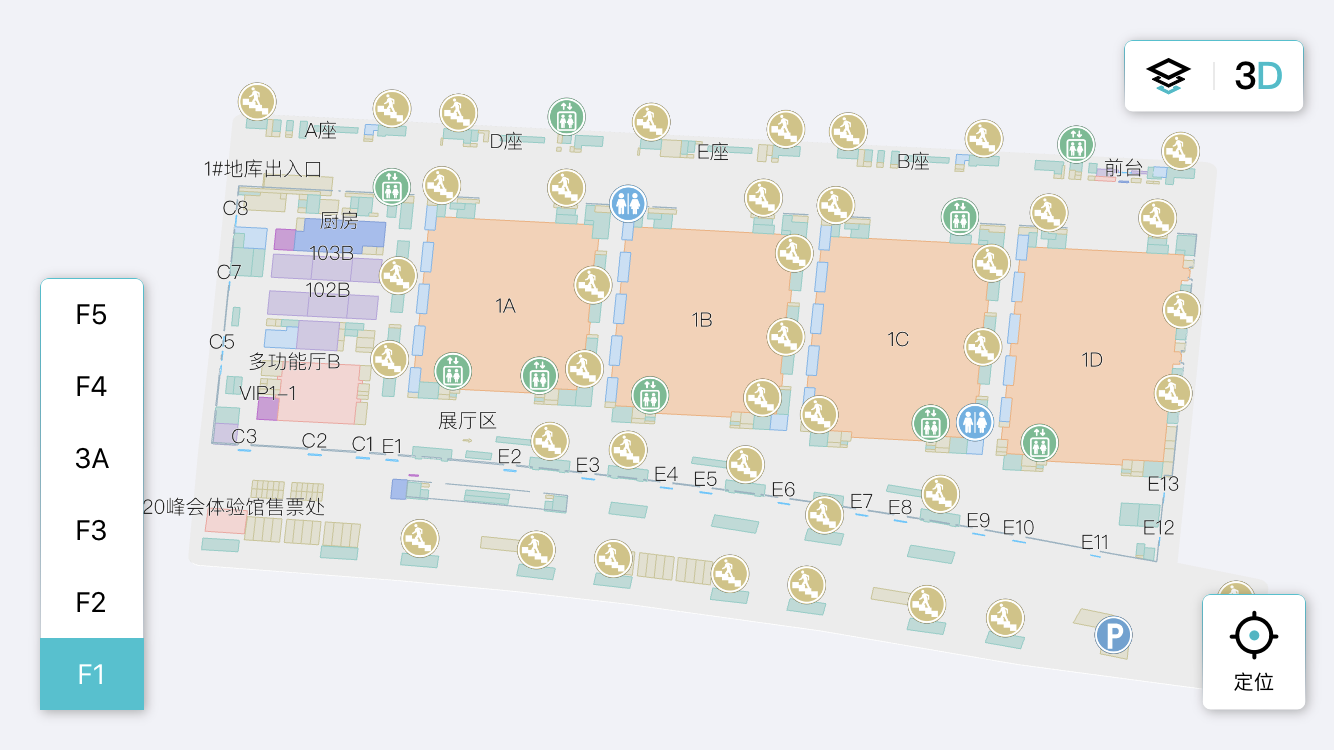
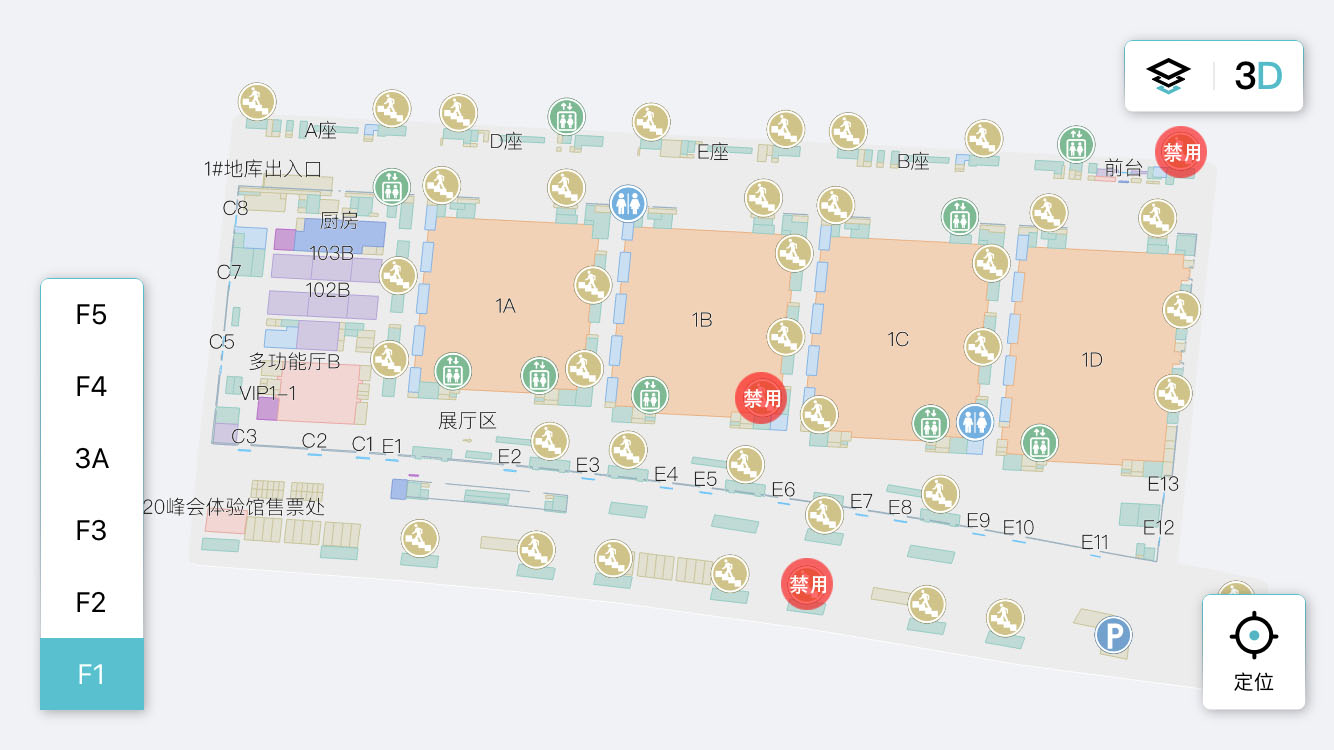
添加逃生路线

Changed region(s): [[0.8606, 0.1533, 0.922, 0.2453], [0.584, 0.736, 0.6454, 0.828], [0.5532, 0.4907, 0.6147, 0.5827]]

diff --git a/src/util/Draw_traj.js b/src/util/Draw_traj.js
@@ -1,0 +1,169 @@
+function arrowTo(ctx, p1, p2, arrowOptions) {
+        // 初始化参数
+        var opts = {
+            startOffset: 5,             // 起点的留空长度
+            endOffset: 5,               // 终点的留空长度
+            offset: 0,                  // 偏移位（模拟动画效果用, 使用时建议将justifyAlign设为false） 
+            color: '#E6E6FA',           // 默认颜色 
+            activeIndex: -1,            // 高亮箭头的索引, 超出回到一圈起始位置。(默认-1，不做高亮处理) 
+            activeColor: "#00FF00",     // 高亮颜色(Highligh Color)
+            stepLength: 10,             // 间隔(步长)
+            justifyAlign: true,         // 两端对齐(两边撑满, 配合activeIndex > 0时使用) 
+            arrowLength: 15,            // 箭头长度(柄到顶点)            
+            arrowTheta: 25,             // 箭头两边的夹角（度数） 
+            arrowHeadlen: 6,            // 箭头两边斜边长度 
+            arrowLineWidth: 1,          // 画箭头的线宽度
+            lineWidth: 1,               // 两点间的连丝宽度（>0时，有效）
+        };
+ 
+ 
+        if (arrowOptions !== undefined && arrowOptions !== null) {
+            opts = Object.assign(opts, arrowOptions);
+        }
+ 
+ 
+        // 画连结两点的线
+//         if (opts.lineWidth > 0) {
+//             ctx.beginPath();
+//             ctx.moveTo(p1.x, p1.y);
+//             ctx.lineTo(p2.x, p2.y);
+//             //颜色，线宽
+//             ctx.strokeStyle = opts.color;
+//             ctx.lineWidth = opts.lineWidth;
+//             ctx.stroke();
+//             ctx.closePath();
+//         }
+ 
+ 
+        // 计两点距离
+        var len = Math.floor(Math.sqrt(Math.pow(p1.x - p2.x, 2) + Math.pow(p1.y - p2.y, 2)));
+        // 计算画多少个箭头(注意：最后一个箭头是不需要间隔(步长)，所以可用长度要加一个opts.stepLength)
+        var loops = Math.floor((len - (opts.startOffset + opts.offset + opts.endOffset) + opts.stepLength) / (opts.arrowLength + opts.stepLength));
+        // 两端对齐(两边撑满)，重算步长 
+        if (opts.justifyAlign === true) {
+            opts.stepLength = (len - (opts.startOffset + opts.offset + opts.endOffset) - (opts.arrowLength * loops)) / (loops - 1);
+        }
+ 
+ 
+        // 高亮箭头的索引, 超出回到一圈起始位置。(用于动画效果) 
+        var highlightIndex = 0;               // 0 - 无动画效果                
+        if (opts.activeIndex > 0) {
+            if ((opts.activeIndex % loops) === 0) {
+                highlightIndex = loops;
+            }
+            else {
+                highlightIndex = opts.activeIndex % loops;
+            }
+        }
+ 
+ 
+        var hudu = Math.atan2(p1.y - p2.y, p2.x - p1.x);    // 计算p1, p2两点的倾斜度（弧度）。(注意参数：p1.y - p2.y, p2.x - p1.x, 请勿搞错)
+        var p0 = { x: p1.x, y: p1.y };                      // 原点坐标, 作为圆心。 (辅助计算箭头起点(柄)与顶点的坐标)
+        var r;                                              // 半径。 (辅助计算箭头起点(柄)与顶点的坐标)
+        var color;
+        for (var i = 0; i < loops; i++) {
+            // 箭头起点(柄)
+            r = (opts.startOffset + opts.offset) + (opts.arrowLength + opts.stepLength) * i;     // 原点到箭头起点(柄)的半径
+            p1 = {
+                x: p0.x + Math.cos(hudu) * r,
+                y: p0.y - Math.sin(hudu) * r
+            };
+ 
+ 
+            // 箭头终点（顶点）
+            r = r + opts.arrowLength;                       // 原点到箭头顶点(柄)的半径
+            p2 = {
+                x: p0.x + Math.cos(hudu) * r,
+                y: p0.y - Math.sin(hudu) * r
+            };
+ 
+            // 画一个箭头
+            if (highlightIndex > 0 && i === (highlightIndex - 1)) {
+                color = opts.activeColor;       //高亮箭头（动画效果）
+            }
+            else {
+                color = opts.color;
+            }
+            drawArrow(ctx, p1, p2, opts.arrowTheta, opts.arrowHeadlen, opts.arrowLineWidth, color);
+        }
+    }
+ 
+ 
+    // 画箭头
+    // ctx - 画布上下文（我理解成画笔）
+    // p1 - 起点
+    // p2 - 终点
+    // theta -- 夹角theta (是度数，不是弧度)
+    // headlen -- 斜边长度
+    // width -- 线宽
+    // color -- 颜色
+    function drawArrow(ctx, p1, p2, theta, headlen, width, color) {
+        theta = (theta !== undefined && theta !== null) ? theta : 25;       //夹角(度数)
+        headlen = (headlen !== undefined && headlen !== null) ? headlen : 6;   //斜边长度
+        width = (width !== undefined && width !== null) ? width : 1;        //线宽
+        color = (color !== undefined && color !== null) ? color : '#000';       //颜色
+ 
+ 
+        var angle = Math.atan2(p1.y - p2.y, p1.x - p2.x) * 180 / Math.PI,   //倾斜度(度数)
+            angle1 = (angle + theta) * Math.PI / 180,            //夹角1
+            angle2 = (angle - theta) * Math.PI / 180,            //夹角2   
+            topX = headlen * Math.cos(angle1),                   //箭头上面点, X偏移位
+            topY = headlen * Math.sin(angle1),                   //箭头上面点, Y偏移位
+            botX = headlen * Math.cos(angle2),                   //箭头下面点, X偏移位   
+            botY = headlen * Math.sin(angle2);                   //箭头下面点, Y偏移位      
+        ctx.save();
+
+        ctx.beginPath();
+ 
+        //连结两点的线
+        ctx.moveTo(p1.x, p1.y);
+        ctx.lineTo(p2.x, p2.y);
+ 
+ 
+        //终点箭头的两侧
+        var arrowX = p2.x + topX;
+        var arrowY = p2.y + topY;
+        ctx.moveTo(arrowX, arrowY);
+        ctx.lineTo(p2.x, p2.y);           //终点
+        arrowX = p2.x + botX;
+        arrowY = p2.y + botY;
+        ctx.lineTo(arrowX, arrowY);
+ 
+ 
+        //颜色，线宽
+        ctx.strokeStyle = color;
+        ctx.lineWidth = width;
+        ctx.stroke();
+ 
+ 
+        ctx.restore();
+    }
+ 
+ 
+    // 为Object扩展assign方法（合拼多个对象的属性，返回一个新对象）
+    if (!Object.assign) {
+        Object.defineProperty(Object, "assign", {
+            enumerable: false,
+            configurable: true,
+            writable: true,
+            value: function (target, firstSource) {
+                "use strict";
+                if (target === undefined || target === null)
+                    throw new TypeError("Cannot convert first argument to object");
+                var to = Object(target);
+                for (var i = 1; i < arguments.length; i++) {
+                    var nextSource = arguments[i];
+                    if (nextSource === undefined || nextSource === null) continue;
+                    var keysArray = Object.keys(Object(nextSource));
+                    for (var nextIndex = 0, len = keysArray.length; nextIndex < len; nextIndex++) {
+                        var nextKey = keysArray[nextIndex];
+                        var desc = Object.getOwnPropertyDescriptor(nextSource, nextKey);
+                        if (desc !== undefined && desc.enumerable) to[nextKey] = nextSource[nextKey];
+                    }
+                }
+                return to;
+            }
+        });
+    }
+
+export default arrowTo

diff --git a/src/map.js b/src/map.js
@@ -8,7 +8,7 @@ import pic_f5 from './image/f5.jpg';
 import pic_f3a from './image/f3a.jpg';
 
 import Particle from './util/particle'
-
+import arrowTo from './util/Draw_traj'
 const pics = {
 	'f1' : pic_f1,
 	'f2' : pic_f2,
@@ -26,12 +26,75 @@ class Map extends React.Component {
     }
 
     this.canvas = React.createRef();
+    this.TrajsCanvas = React.createRef();
+    this.floorTrajs ={
+      'f1' : {
+'origin':{ x: 350, y: 150},
+'trajs':[
+      [{ x: 350, y: 150 },{ x: 360, y: 70 }],
+      [{ x: 360, y: 70 },{ x: 400, y: 60 }], 
+      [{ x: 350, y: 150 },{ x: 400, y: 100 }],
+      [{x: 350, y: 150 },{ x: 420, y: 130 }],
+      [{ x: 350, y: 150 },{ x: 400, y: 160 }]
+      ]
+      },
+  'f2' : {
+'origin':{ x: 550, y: 150},
+'trajs':[
+      [{ x: 550, y: 150 },{ x: 520, y: 100 }],
+      [{ x: 550, y: 150 },{ x: 520, y: 210 }], 
+      [{ x: 550, y: 150 },{ x: 600, y: 100 }],
+      [{x: 550, y: 150 },{ x: 600, y: 130 }],
+      [{ x: 550, y: 150 },{ x: 600, y: 160 }]
+      ]
+      },
+  'f3' :{
+'origin':{ x: 350, y: 150},
+'trajs':[
+     [{ x: 350, y: 150 },{ x: 350, y: 70 }],
+      [{ x: 350, y: 70 },{ x: 320, y: 70 }], 
+      [{ x: 350, y: 150 },{ x: 300, y: 200 }],
+      [{x: 350, y: 150 },{ x: 380, y: 70 }],
+      [{ x: 350, y: 150 },{ x: 380, y: 170 }]
+      ]
+      },
+  'f3a' : {
+'origin':{ x: 550, y: 200},
+'trajs':[
+      [{ x: 550, y: 200 },{ x: 580, y: 130 }],
+      [{ x: 550, y: 200 },{ x: 600, y: 150 }], 
+      [{ x: 550, y: 200 },{ x: 580, y: 190 }],
+      // [{x: 550, y: 150 },{ x: 600, y: 130 }],
+      // [{ x: 550, y: 150 },{ x: 600, y: 160 }]
+      ]
+      },
+  'f4' : {
+'origin':{ x: 450, y: 150},
+'trajs':[
+      [{ x: 450, y: 150 },{ x: 510, y: 100 }],
+      [{x: 510, y: 100},{ x: 490, y: 70 }], 
+      [{x: 450, y: 150 },{ x: 500, y: 200 }],
+      [{x: 450, y: 150 },{ x: 390, y: 100 }],
+      [{ x: 390, y: 100 },{ x: 400, y: 70 }]
+      ]
+      },
+  'f5' : {
+'origin':{ x: 550, y: 150},
+'trajs':[
+      [{ x: 550, y: 150 },{ x: 410, y: 120 }],
+      [{ x: 410, y: 120 },{ x: 410, y: 90 }],
+      [{x: 550, y: 150 },{ x: 520, y: 100 }],
+      [{ x: 550, y: 150 },{ x: 600, y: 100 }]
+      ]
+      },
+    }
   }
 
   componentDidMount(){
   	console.log(this.canvas)
 
-  	this.drawBurns()
+  	// this.drawBurns()
+    this.drawTrajs()
   }
 
   // 用 canvas 画团火焰
@@ -87,13 +150,68 @@ class Map extends React.Component {
 
 	let timeoutId = setTimeout(update, 1000 / 30);
 	this.setState({ timeoutId })
-  }
+  };
+  //canvas绘制逃生轨迹
+  drawTrajs(){
+    let myCanvas = this.TrajsCanvas
+    if(!myCanvas  || !myCanvas.current) return
+    // myCanvas.style.cssText = "position:absolute;left:0;top:0; border: 1px solid #ccc;"; // 画布样式
+    myCanvas = this.TrajsCanvas.current
+    let height = myCanvas.clientHeight
+    let width  = myCanvas.clientWidth
+    myCanvas.width = 690;   // 画布的宽度
+    myCanvas.height = 360;  // 画布的高度 
+   // 画笔（绘图对象）
+    var ctx = myCanvas.getContext('2d');
+ 
+    // ctx.fillStyle = "red";
+    // ctx.arc(350, 150,5, 0, Math.PI*2, false);
 
+   
+    // 动画效果
+    var _index = 1;
+    var selfthis = this
+    setInterval(function () {
+        // 清空画布
+        var BW = myCanvas.width;
+        var BH = myCanvas.height;
+        ctx.clearRect(0, 0, BW, BH);                // 清空画布
+        if(selfthis.props.floor)
+          var infs = selfthis.floorTrajs[selfthis.props.floor] 
+        else
+          var infs = selfthis.floorTrajs['f1']
+        ctx.beginPath();
+        ctx.fillStyle = "red";
+        ctx.arc(infs['origin']['x'],infs['origin']['y'],3, 0, Math.PI*2, false);
+        ctx.fill();
+        ctx.closePath();
+        // 整体偏移效果
+        var offset = (_index % 3) * 5; 
+        for(var i=0;i<infs['trajs'].length;i++)
+        {
+          arrowTo(ctx,infs['trajs'][i][0], infs['trajs'][i][1],{ offset: offset, color: "red", justifyAlign: false });
+        }
+//         arrowTo(ctx,{ x: 350, y: 150 }, { x: 360, y: 70 },  { offset: offset, color: "red", justifyAlign: false });
+//         arrowTo(ctx,{ x: 360, y: 70 }, { x: 400, y: 60 },  { offset: offset, color: "red", justifyAlign: false });
+//         arrowTo(ctx, { x: 350, y: 150 }, { x: 400, y: 100 }, { offset: offset, color: "red", justifyAlign: false });
+//         arrowTo(ctx, { x: 350, y: 150 }, { x: 420, y: 130 }, { offset: offset, color: "red", justifyAlign: false });
+//         arrowTo(ctx, { x: 350, y: 150 },  { x: 400, y: 160 }, { offset: offset, color: "red", justifyAlign: false });
+ 
+        // 其他处理
+        if (_index >= 50) {
+            _index = 1
+        }
+        else {
+            _index++;
+        }
+    }, 300);
+}
   render() {
     return (
       <div className='container'>
         <img src={pics[ this.props.floor ] ||  pics['f1']}  className='image' />
-        <canvas ref={this.canvas}/>
+        // <canvas ref={this.canvas}/>
+        <canvas ref={this.TrajsCanvas}/>
       </div>
     );
   }

diff --git a/src/map.css b/src/map.css
@@ -1,5 +1,5 @@
 .container{
-	width: 100%;
+	width: 800px;
 	height: 400px;
 	display: flex;
 	justify-content: center;
